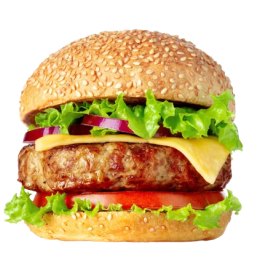
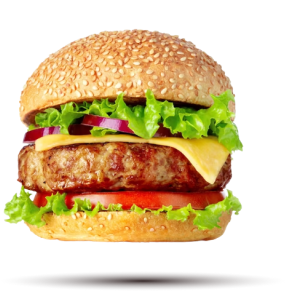
in progress footer from Burger-shop project

diff --git a/Day10_24_06_5_Project_Burger_Shop/assets/css/style.css b/Day10_24_06_5_Project_Burger_Shop/assets/css/style.css
@@ -70,17 +70,18 @@ p {
   font-family: KhandR;
   font-size: 2.4rem;
   line-height: auto;
-  color: black;
+  color: #121116;
+  text-shadow: 0 4px 4px #00000035;
 }
 
 .btn {
   display: inline;
 
   width: 200px;
-  background: red;
-  padding: 3% 0;
-  border: 2px solid red;
-  border-radius: 10px;
+  background: #6e0c00;
+  padding: 4% 0;
+  border: 2px solid #6e0c00;
+  border-radius: 25px;
 
   font-family: "Bevan";
   font-size: 1.6rem;
@@ -94,6 +95,8 @@ header {
   height: 60vh;
   background: url("../img/bg1.png") no-repeat;
   background-size: cover;
+
+  margin-bottom: 15%;
 }
 
 header section:nth-of-type(1) {
@@ -188,4 +191,119 @@ header section:nth-of-type(2) div div:nth-of-type(2) > img {
   height: 100%;
   z-index: 2;
   overflow: visible;
+}
+
+/** ----- Main Section 1 --- */
+
+.mainS1 {
+  display: flex;
+  justify-content: space-between;
+
+  width: 93%;
+  margin: 0 auto 10% auto;
+}
+
+.mainS1 > a {
+  width: 54%;
+}
+
+.mainS1 a img {
+  width: 100%;
+}
+
+.mainS1 article {
+  display: flex;
+  flex-direction: column;
+  justify-content: space-between;
+  width: 45%;
+}
+
+.mainS1 article a {
+  width: 100%;
+}
+
+/** ---- Main Section 2 ---- */
+
+.mainS2 {
+  display: flex;
+  flex-direction: column;
+  justify-content: space-between;
+  align-items: center;
+
+  height: 65vh;
+}
+
+.mainS2 article:nth-of-type(1) {
+  width: 80%;
+
+  text-align: center;
+}
+
+.mainS2 article:nth-of-type(2) {
+  display: flex;
+  justify-content: space-between;
+  width: 95%;
+}
+
+.mainS2 article div {
+  display: flex;
+  flex-direction: column;
+  justify-content: space-around;
+  text-align: center;
+  height: 55vh;
+  width: 32%;
+
+  overflow: hidden;
+}
+
+.mainS2 article div img {
+  overflow: hidden;
+}
+
+.mainS2 article div .btn {
+  margin: 0 auto;
+}
+
+.mainS2 article div h4 {
+  text-align: center;
+}
+
+.mainS2 article div:nth-of-type(1) img {
+  width: 85%;
+  margin-left: 12%;
+}
+
+.mainS2 article div:nth-of-type(2) img {
+  width: 105%;
+  margin: 9% 0 0 -4%;
+}
+
+.mainS2 article div:nth-of-type(3) img {
+  width: 100%;
+  margin: 10% 0 0 2%;
+}
+
+/** ---- Footer --- */
+
+footer {
+  background: url("../img/bg2.png");
+  width: 100%;
+  padding: 3%;
+}
+
+footer section {
+  display: flex;
+  justify-content: space-between;
+  border: 1px solid red;
+  width: 70%;
+}
+
+footer section img {
+  height: 6vh;
+  width: 26%;
+}
+
+footer section article {
+  display: flex;
+  flex-direction: column;
 }

diff --git a/Day10_24_06_5_Project_Burger_Shop/index.html b/Day10_24_06_5_Project_Burger_Shop/index.html
@@ -59,7 +59,7 @@
           <div>
             <img src="./assets/img/burger5.png" alt="burger5" />
 
-            <h4>CHICKEN BURGER</h4>
+            <h4>Chicken Burger</h4>
 
             <p>
               Burger buns Lettuce leaves Sliced tomatoes Sliced onions Sliced
@@ -70,12 +70,10 @@
             <a class="btn" href="#">Order Now!</a>
           </div>
 
-          <!----------------->
-
           <div>
-            <img src="./assets/img/burger5.png" alt="burger5" />
+            <img src="./assets/img/burger6.png" alt="burger6" />
 
-            <h4>CHICKEN BURGER</h4>
+            <h4>Mutton Burger</h4>
 
             <p>
               Burger buns Lettuce leaves Sliced tomatoes Sliced onions Sliced
@@ -86,12 +84,10 @@
             <a class="btn" href="#">Order Now!</a>
           </div>
 
-          <!----------------->
-
           <div>
-            <img src="./assets/img/burger5.png" alt="burger5" />
+            <img src="./assets/img/burger7.png" alt="burger7" />
 
-            <h4>CHICKEN BURGER</h4>
+            <h4>Veg Burger</h4>
 
             <p>
               Burger buns Lettuce leaves Sliced tomatoes Sliced onions Sliced
